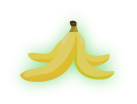
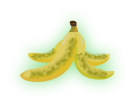
Nivdau 1

Changed region(s): [[0.2044, 0.3462, 0.5547, 0.75], [0.5547, 0.4904, 0.7883, 0.75], [0.2336, 0.4615, 0.4088, 0.5769]]

diff --git a/jeu.py b/jeu.py
@@ -5,6 +5,7 @@ from globals import *
 def reset_globals():
     global birds, banane_positions, hotdog_positions, burger_positions, banane_malus_positions, poubelle_positions
     global brocoli_positions, dinde_positions, score, current_level, current_bird_index, game_over, end_game_time, space, running
+    global cookie_positions, poulet_positions, sandwich_positions, os_malus_positions
 
     birds = []
     banane_positions = []
@@ -14,6 +15,11 @@ def reset_globals():
     poubelle_positions = []
     brocoli_positions = []
     dinde_positions = []
+
+    cookie_positions = []
+    poulet_positions = []
+    sandwich_positions = []
+    os_malus_positions = []
     score = 0
     current_level = 1
     current_bird_index = 0
@@ -37,6 +43,13 @@ def create_food(level):
         banane_malus_positions = [(600, 350), (780, 570)]
         poubelle_positions = [(620, 200), (1300, 420)]
         return banane_positions, hotdog_positions, burger_positions, banane_malus_positions, poubelle_positions
+    elif level == 2:
+        cookie_positions = [(600, 450), (1000, 300)]
+        poulet_positions = [(600, 250), (1200, 600)]
+        sandwich_positions = [(1250, 300)] #
+        os_malus_positions = [(700, 350), (900, 550)]
+        poubelle_positions = [(650, 700), (1250, 400)]
+        return cookie_positions, poulet_positions, sandwich_positions, os_malus_positions, poubelle_positions
     else:
         return create_random_food(level)
 
@@ -74,14 +87,22 @@ def create_ground():
     return body, shape
 
 
-def create_gobelets():
+def create_gobelets(level):
     gobelets = []
-    positions = [
-        (90, screen_height - 70),  # Gobelet bleu (1ère position)
-        (210, screen_height - 60),  # Gobelet rouge (2ème position)
-        (330, screen_height - 70)  # Gobelet vert (3ème position)
-    ]
-    images = [GOBELET_BLEU, GOBELET_ROUGE, GOBELET_VERT]
+    if level == 1:
+        positions = [
+            (90, screen_height - 70),  # Gobelet bleu
+            (210, screen_height - 60),  # Gobelet rouge
+            (330, screen_height - 70)   # Gobelet vert
+        ]
+        images = [GOBELET_BLEU, GOBELET_ROUGE, GOBELET_VERT]
+    else:  # Niveau 2 et 3
+        positions = [
+            (90, screen_height - 70),   # Yaourt position 1
+            (210, screen_height - 60),  # Yaourt position 2
+            (330, screen_height - 70)   # Yaourt position 3
+        ]
+        images = [GOBELET_YAOURT] * 3  # Même image pour les 3 positions
 
     for img, pos in zip(images, positions):
         body = pymunk.Body(body_type=pymunk.Body.STATIC)
@@ -108,10 +129,20 @@ def create_gobelets():
 def create_obstacles(level):
     obstacles = []
     if level == 1:
-        # Obstacle Jus (normal)
+        # Obstacle Jus - Hitbox précise
         body = pymunk.Body(body_type=pymunk.Body.STATIC)
         body.position = (screen_width - 550, screen_height - 190)
-        shape = pymunk.Poly.create_box(body, (JUS_OBSTACLE.get_width() * 0.9, JUS_OBSTACLE.get_height() * 0.9))
+
+        # Création de la hitbox basée sur le contour de l'image
+        mask = pygame.mask.from_surface(JUS_OBSTACLE)
+        outline = mask.outline()
+        if outline:
+            simplified = [v for i, v in enumerate(outline) if i % 5 == 0]  # Simplifier le contour
+            vertices = [(x - JUS_OBSTACLE.get_width() / 2, y - JUS_OBSTACLE.get_height() / 2) for (x, y) in simplified]
+            shape = pymunk.Poly(body, vertices)
+        else:
+            shape = pymunk.Poly.create_box(body, (JUS_OBSTACLE.get_width() * 0.9, JUS_OBSTACLE.get_height() * 0.9))
+
         shape.elasticity = 0.5
         shape.friction = 1.0
         space.add(body, shape)
@@ -123,8 +154,8 @@ def create_obstacles(level):
         space.add(body)
 
         # Vos paramètres exacts du trou
-        radius_x = 10  # Largeur du trou
-        radius_y = 30  # Hauteur du trou
+        radius_x = 5  # Largeur du trou
+        radius_y = 50  # Hauteur du trou
         segments = 20  # Nombre de segments pour l'ovale
 
         # Demi-cercle supérieur (comme dans votre code)
@@ -154,6 +185,39 @@ def create_obstacles(level):
 
         # Stockage simple avec l'image
         obstacles.append((body, [top_shape, bottom_shape], JOUET_OBSTACLE))
+    elif level == 2:
+        # Avion (statique avec hitbox précise)
+        body = pymunk.Body(body_type=pymunk.Body.STATIC)
+        body.position = (screen_width - 400, 150)
+        mask = pygame.mask.from_surface(AVION_OBSTACLE)
+        outline = mask.outline()
+        simplified = [outline[i] for i in range(0, len(outline), 3)]  # Simplifier le contour
+        vertices = [(x - AVION_OBSTACLE.get_width() / 2, y - AVION_OBSTACLE.get_height() / 2) for (x, y) in simplified]
+        shape = pymunk.Poly(body, vertices)
+        space.add(body, shape)
+        obstacles.append((body, shape, AVION_OBSTACLE))
+
+        # Bouteille (dynamique avec hitbox rectangulaire simple)
+        body = pymunk.Body(1, pymunk.moment_for_box(1, (
+        BOUTEILLE_OBSTACLE.get_width() * 0.7, BOUTEILLE_OBSTACLE.get_height() * 0.7)))
+        body.position = (screen_width // 2, screen_height - 150)
+        shape = pymunk.Poly.create_box(body,
+                                       (BOUTEILLE_OBSTACLE.get_width() * 0.7, BOUTEILLE_OBSTACLE.get_height() * 0.7))
+        shape.elasticity = 0.7
+        shape.friction = 0.5
+        space.add(body, shape)
+        obstacles.append((body, shape, BOUTEILLE_OBSTACLE))
+
+        # Livre (statique avec hitbox précise)
+        body = pymunk.Body(body_type=pymunk.Body.STATIC)
+        body.position = (screen_width - 150, screen_height - 200)
+        mask = pygame.mask.from_surface(LIVRE_OBSTACLE)
+        outline = mask.outline()
+        simplified = [outline[i] for i in range(0, len(outline), 3)]  # Simplifier le contour
+        vertices = [(x - LIVRE_OBSTACLE.get_width() / 2, y - LIVRE_OBSTACLE.get_height() / 2) for (x, y) in simplified]
+        shape = pymunk.Poly(body, vertices)
+        space.add(body, shape)
+        obstacles.append((body, shape, LIVRE_OBSTACLE))
 
     return obstacles
 
@@ -191,7 +255,15 @@ def check_collision():
 
         # Vérifier la proximité avec la nourriture pour ouvrir la bouche
         bird.near_food = False
-        for lst in [banane_positions, hotdog_positions, burger_positions, banane_malus_positions, poubelle_positions]:
+        food_lists = []
+        if current_level == 1:
+            food_lists = [banane_positions, hotdog_positions, burger_positions, banane_malus_positions, poubelle_positions]
+        elif current_level == 2:
+            food_lists = [cookie_positions, poulet_positions, sandwich_positions, os_malus_positions, poubelle_positions]
+        else:
+            food_lists = [hotdog_positions, burger_positions, brocoli_positions, dinde_positions]
+
+        for lst in food_lists:
             for item in lst:
                 if ((bird.body.position[0] - item[0]) ** 2 + (bird.body.position[1] - item[1]) ** 2) ** 0.5 < 150:
                     bird.near_food = True
@@ -200,23 +272,39 @@ def check_collision():
                 break
 
         # Collision avec la nourriture
-        for lst, points, size, img, color_effect in [
-            (banane_positions, 20, 5, BANANE_BONUS, None),  # +20 points, petit grossissement
-            (hotdog_positions, 40, 10, HOTDOG_BONUS, None),  # +40 points, moyen grossissement
-            (burger_positions, 100, 20, BURGER_BONUS, None),  # +100 points, gros grossissement
-            (banane_malus_positions, -20, -5, BANANE_MALUS, (100, 255, 100)),  # -20 points, légère teinte verte
-            (poubelle_positions, -50, -10, POUBELLE_MALUS, (50, 255, 50))  # -50 points, forte teinte verte
-        ]:
+        if current_level == 1:
+            food_data = [
+                (banane_positions, 20, 5, BANANE_BONUS, None),
+                (hotdog_positions, 40, 10, HOTDOG_BONUS, None),
+                (burger_positions, 100, 20, BURGER_BONUS, None),
+                (banane_malus_positions, -20, -5, BANANE_MALUS, (100, 255, 100)),
+                (poubelle_positions, -50, -10, POUBELLE_MALUS, (50, 255, 50))
+            ]
+        elif current_level == 2:
+            food_data = [
+                (cookie_positions, 30, 8, COOKIE_BONUS, None),
+                (poulet_positions, 50, 12, POULET_BONUS, None),
+                (sandwich_positions, 80, 15, SANDWICH_BONUS, None),
+                (os_malus_positions, -30, -8, OS_MALUS, (100, 255, 100)),
+                (poubelle_positions, -60, -15, POUBELLE_NV2_MALUS, (50, 255, 50))
+            ]
+        else:
+            food_data = [
+                (hotdog_positions, 40, 10, HOTDOG_IMG, None),
+                (burger_positions, 80, 15, BURGER_IMG, None),
+                (brocoli_positions, -20, -5, BROCOLI_IMG, (100, 255, 100)),
+                (dinde_positions, -40, -10, DINDE_IMG, (50, 255, 50))
+            ]
+
+        for lst, points, size, img, color_effect in food_data:
             for item_pos in lst[:]:
-                if ((bird.body.position[0] - item_pos[0]) ** 2 + (
-                        bird.body.position[1] - item_pos[1]) ** 2) ** 0.5 < 50:
+                if ((bird.body.position[0] - item_pos[0]) ** 2 + (bird.body.position[1] - item_pos[1]) ** 2) ** 0.5 < 50:
                     score += points
                     bird.size = max(50, bird.size + size)
 
-                    # Appliquer l'effet de couleur si c'est un malus
                     if color_effect:
                         bird.color_effect = color_effect
-                        pygame.time.set_timer(pygame.USEREVENT + 1, 2000)  # Réinitialiser après 2 sec
+                        pygame.time.set_timer(pygame.USEREVENT + 1, 2000)
 
                     lst.remove(item_pos)
                     miam_sound.play()
@@ -238,6 +326,7 @@ def clear_space():
 
 def restart_game():
     global birds, banane_positions, hotdog_positions, burger_positions, banane_malus_positions, poubelle_positions
+    global cookie_positions, poulet_positions, sandwich_positions, os_malus_positions, poubelle_positions
     global brocoli_positions, dinde_positions, score, current_bird_index, game_over, end_game_time
 
     clear_space()
@@ -253,13 +342,16 @@ def restart_game():
     if current_level == 1:
         banane_positions, hotdog_positions, burger_positions, banane_malus_positions, poubelle_positions = create_food(
             current_level)
+    elif current_level ==2:
+        cookie_positions, poulet_positions, sandwich_positions, os_malus_positions, poubelle_positions = create_food(
+            current_level)
     else:
         hotdog_positions, burger_positions, brocoli_positions, dinde_positions = create_random_food(current_level)
 
     create_ground()
     create_borders()
     obstacles = create_obstacles(current_level)
-    gobelets = create_gobelets()
+    gobelets = create_gobelets(current_level)
 
     gobelet_positions = [
         (330, screen_height - 70),  # 3ème gobelet (vert) - premier oiseau choisi
@@ -373,25 +465,35 @@ def game_loop(obstacles=None, gobelets=None):
     reglage_btn = BoutonInteractif('Reglages2', ajustx(screen_width - 300), ajusty(20), ajustx(250), ajusty(70))
 
     while running:
-        screen.blit(DECORS_NV1 if current_level == 1 else DECORS_IMG, (0, 0))
+        # Afficher le décor approprié selon le niveau
+        if current_level == 1:
+            screen.blit(DECORS_NV1, (0, 0))
+        elif current_level == 2:
+            screen.blit(DECORS_NV2, (0, 0))
+        else:
+            screen.blit(DECORS_IMG, (0, 0))
+
+        # Dessiner les obstacles s'ils existent
+        if obstacles:
+            for obstacle in obstacles:
+                body, shape, img = obstacle
+                if body.body_type == pymunk.Body.DYNAMIC:  # Seulement pour la bouteille
+                    # Rotation en fonction de l'angle du corps physique
+                    rotated_img = pygame.transform.rotate(img, -math.degrees(body.angle))
+                    pos = int(body.position.x), int(body.position.y)
+                    screen.blit(rotated_img, rotated_img.get_rect(center=pos))
+                else:
+                    # Obstacles statiques (affichage normal)
+                    screen.blit(img, img.get_rect(center=(int(body.position.x), int(body.position.y))))
 
         # Dessiner les gobelets
         if gobelets:
             for body, shape, img in gobelets:
-                screen.blit(img, (int(body.position.x) - img.get_width() // 2,
-                                  int(body.position.y) - img.get_height() // 2))
+                img_rect = img.get_rect(center=(int(body.position.x), int(body.position.y)))
+                screen.blit(img, img_rect)
 
-        # Dans game_loop()
+        # Dessiner la nourriture selon le niveau
         if current_level == 1:
-            # Dessiner les obstacles
-            if obstacles:
-                for obstacle in obstacles:
-                    if len(obstacle) == 3:  # Format (body, shape/shapes, image)
-                        body, shapes, img = obstacle
-                        screen.blit(img, (int(body.position.x) - img.get_width() // 2,
-                                          int(body.position.y) - img.get_height() // 2))
-
-            # Dessiner la nourriture niveau 1
             for img, positions in [
                 (BANANE_BONUS, banane_positions),
                 (HOTDOG_BONUS, hotdog_positions),
@@ -401,8 +503,17 @@ def game_loop(obstacles=None, gobelets=None):
             ]:
                 for pos in positions:
                     screen.blit(img, img.get_rect(center=pos))
+        elif current_level == 2:
+            for img, positions in [
+                (COOKIE_BONUS, cookie_positions),
+                (POULET_BONUS, poulet_positions),
+                (SANDWICH_BONUS, sandwich_positions),
+                (OS_MALUS, os_malus_positions),
+                (POUBELLE_NV2_MALUS, poubelle_positions)
+            ]:
+                for pos in positions:
+                    screen.blit(img, img.get_rect(center=pos))
         else:
-            # Dessiner nourriture niveaux 2 et 3
             for img, positions in [
                 (HOTDOG_IMG, hotdog_positions),
                 (BURGER_IMG, burger_positions),
@@ -495,7 +606,8 @@ def game_loop(obstacles=None, gobelets=None):
 def jeu(level):
     reset_globals()
     global birds, banane_positions, hotdog_positions, burger_positions, banane_malus_positions, poubelle_positions
-    global brocoli_positions, dinde_positions, running, score, current_level, current_bird_index, space
+    global cookie_positions, poulet_positions, sandwich_positions, os_malus_positions, brocoli_positions, dinde_positions
+    global running, score, current_level, current_bird_index, space
 
     space = pymunk.Space()
     space.gravity = (0, 900)
@@ -508,9 +620,11 @@ def jeu(level):
         birds = selected_team.copy()
 
         if level == 1:
-            banane_positions, hotdog_positions, burger_positions, banane_malus_positions, poubelle_positions = create_food(
-                level)
+            banane_positions, hotdog_positions, burger_positions, banane_malus_positions, poubelle_positions = create_food(level)
             screen.blit(DECORS_NV1, (0, 0))
+        elif level == 2:
+            cookie_positions, poulet_positions, sandwich_positions, os_malus_positions, poubelle_positions = create_food(level)
+            screen.blit(DECORS_NV2, (0, 0))
         else:
             hotdog_positions, burger_positions, brocoli_positions, dinde_positions = create_random_food(level)
             screen.blit(DECORS_IMG, (0, 0))
@@ -518,7 +632,7 @@ def jeu(level):
         create_ground()
         create_borders()
         obstacles = create_obstacles(level)
-        gobelets = create_gobelets()
+        gobelets = create_gobelets(level)
 
         # Positionnement initial des oiseaux au-dessus des gobelets
         gobelet_positions = [

diff --git a/globals.py b/globals.py
@@ -83,11 +83,11 @@ GOBELET_VERT = load_scaled_image("Ressources/image/Niveau 1/Gobelet Vert.png")
 
 JUS_OBSTACLE = load_scaled_image("Ressources/image/Niveau 1/Jus.png")
 JOUET_OBSTACLE = load_scaled_image("Ressources/image/Niveau 1/jouet.png")
-
+BANANE_MALUS = load_scaled_image("Ressources/image/Niveau 1/Banane Pourri-.png")
 BANANE_BONUS = load_scaled_image("Ressources/image/Niveau 1/Banane.png")
 HOTDOG_BONUS = load_scaled_image("Ressources/image/Niveau 1/Hot Dog.png")
 BURGER_BONUS = load_scaled_image("Ressources/image/Niveau 1/Burger.png")
-BANANE_MALUS = load_scaled_image("Ressources/image/Niveau 1/Banane Pourri-.png")
+
 POUBELLE_MALUS = load_scaled_image("Ressources/image/Niveau 1/Poubelle.png")
 
 # Remplacer dans globals.py:
@@ -99,6 +99,28 @@ RESTART_IMG = load_high_quality_image("Ressources/image/Restart.png", (50, 50))
 
 # Charger le décor à la bonne taille
 DECORS_IMG = pygame.image.load("Ressources/image/bck_lvl1.jpg").convert()
+
+# Images pour le niveau 2
+DECORS_NV2 = pygame.transform.scale(pygame.image.load("Ressources/image/Niveau 2/Decors2.png"), (screen_width, screen_height))
+
+# Gobelet pour le niveau 2
+GOBELET_YAOURT = load_scaled_image("Ressources/image/Niveau 2/Yaourt.png")
+
+# Obstacles pour le niveau 2
+AVION_OBSTACLE = load_scaled_image("Ressources/image/Niveau 2/Avion.png")
+BOUTEILLE_OBSTACLE = load_scaled_image("Ressources/image/Niveau 2/Bouteille.png")
+LIVRE_OBSTACLE = load_scaled_image("Ressources/image/Niveau 2/Livre.png")
+
+# Bonus pour le niveau 2
+COOKIE_BONUS = load_scaled_image("Ressources/image/Niveau 2/Cookie.png")
+POULET_BONUS = load_scaled_image("Ressources/image/Niveau 2/Poulet.png")
+SANDWICH_BONUS = load_scaled_image("Ressources/image/Niveau 2/Sandwich.png")
+
+# Malus pour le niveau 2
+OS_MALUS = load_scaled_image("Ressources/image/Niveau 2/Os.png")
+POUBELLE_NV2_MALUS = load_scaled_image("Ressources/image/Niveau 2/Poubelle.png")
+
+
 
 # Position catapulte (utilise screen_height au lieu de HEIGHT)
 CATAPULT_POS = (150, screen_height - 100)
@@ -174,3 +196,5 @@ boutons_jeu = {
 }
 
 GOBELET_COLLISION_TYPE = 0
+
+

diff --git a/tutoriel.py b/tutoriel.py
@@ -5,11 +5,11 @@ def lancer_tutoriel(screen):
     largeur_tuto, hauteur_tuto = 1020, 720
 
     # Charger l’image de fond (même taille que le screen)
-    fond = pygame.image.load("/Users/jackyzhang/PycharmProjects/hungry-bird/Ressources/image/Menu/Decors.png").convert()
+    fond = pygame.image.load("Ressources/image/Menu/Decors.png").convert()
     fond = pygame.transform.scale(fond, screen.get_size())
 
     # Charger l’image tutoriel redimensionnée
-    image_tutoriel = pygame.image.load("/Users/jackyzhang/PycharmProjects/hungry-bird/Ressources/image/Menu/Instruction.png").convert_alpha()
+    image_tutoriel = pygame.image.load("Ressources/image/Menu/Instruction.png").convert_alpha()
     image_tutoriel = pygame.transform.scale(image_tutoriel, (largeur_tuto, hauteur_tuto))
 
     # Calculer la position pour centrer l’image tutoriel
